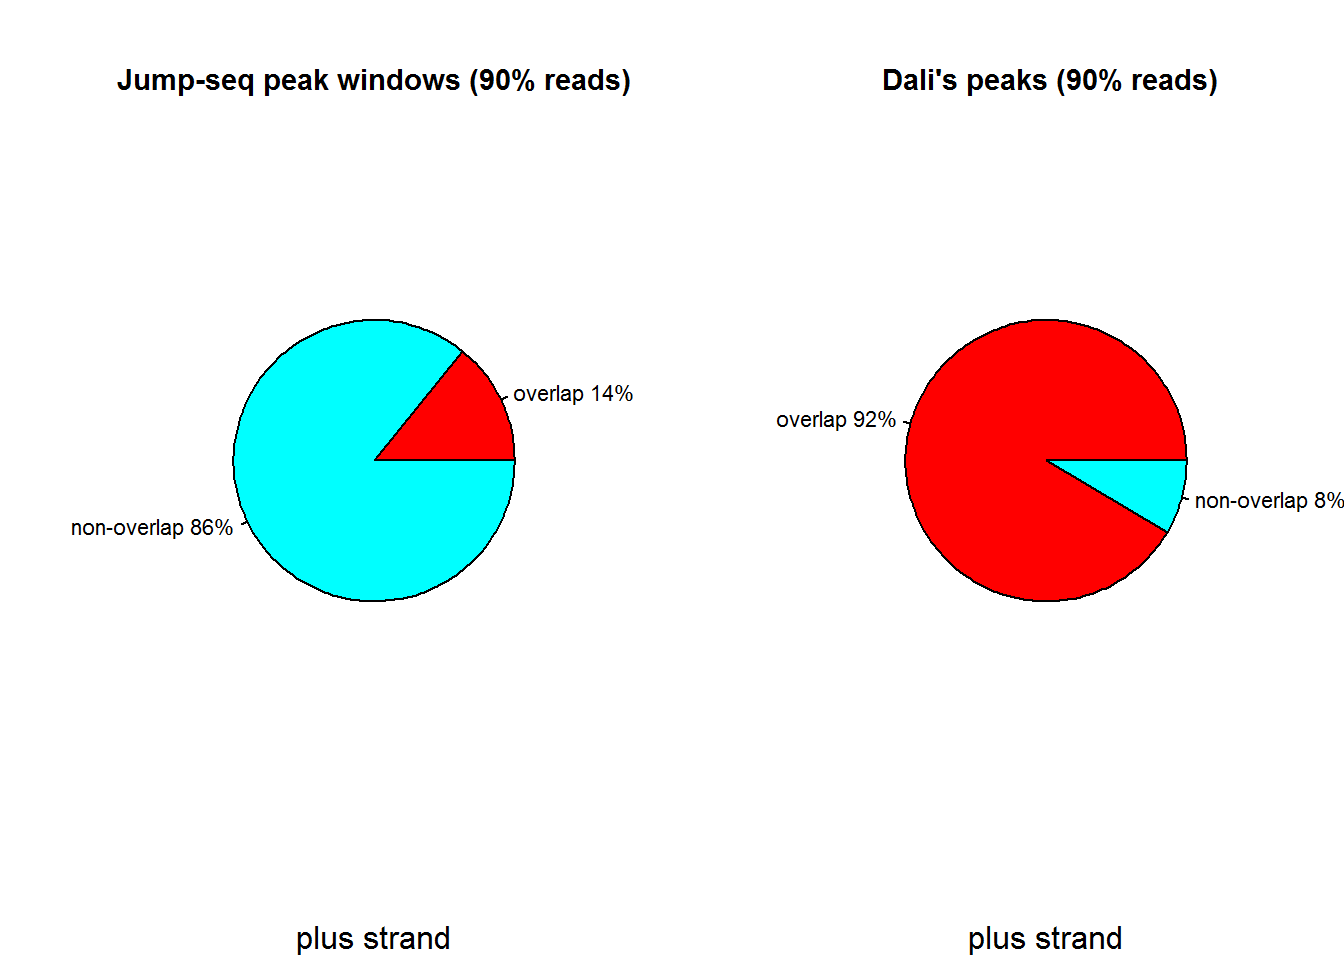
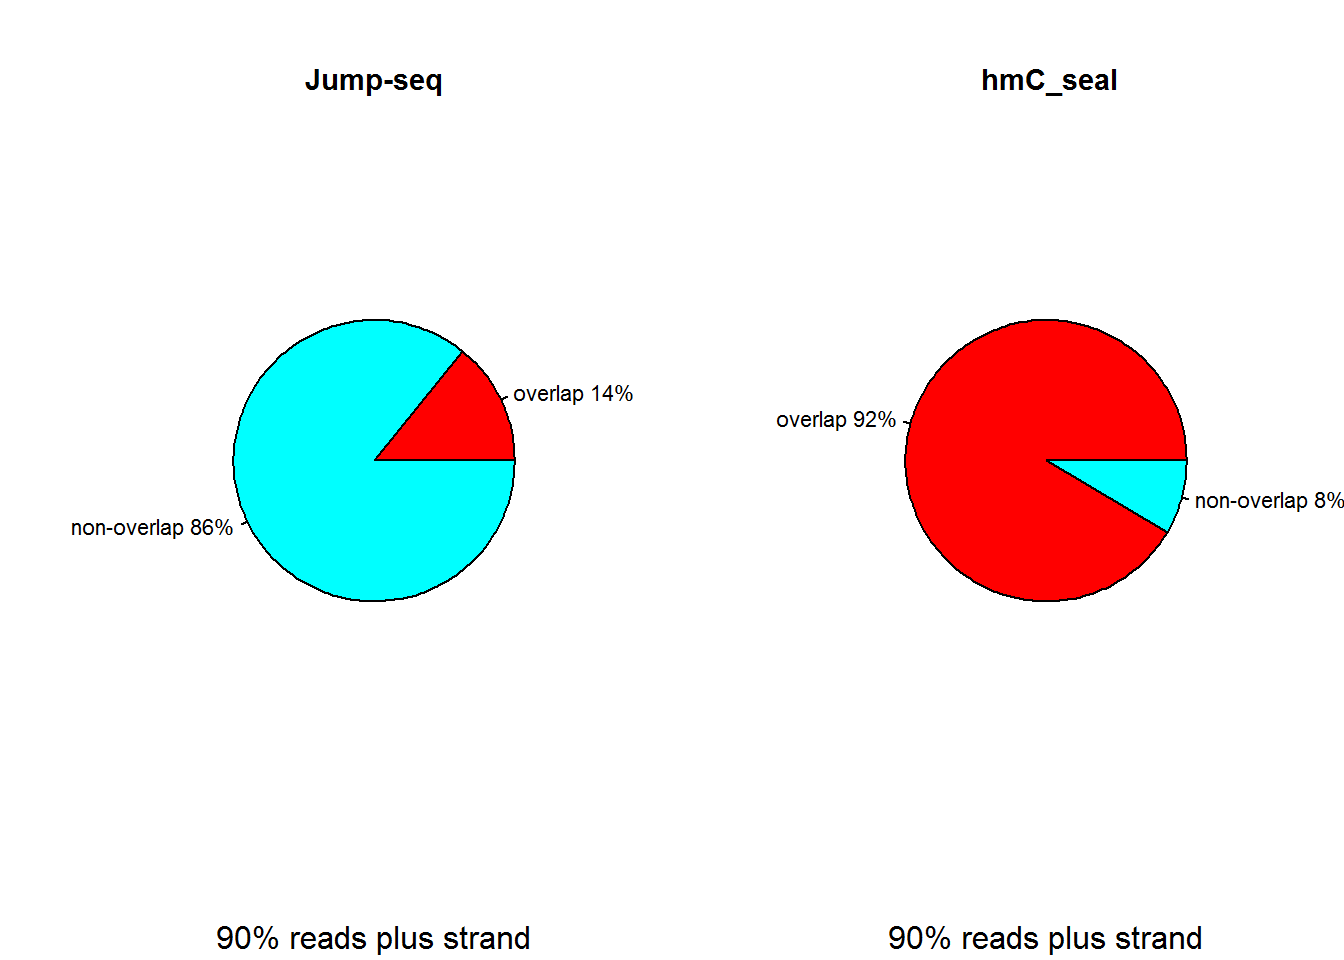
may 4

diff --git a/docs/JumpSeq-analysis.html b/docs/JumpSeq-analysis.html
@@ -315,7 +315,7 @@ shared across the workflowr files. -->
 <p><strong>Last updated:</strong> 2017-05-04</p>
 <!-- Insert the code version (Git commit SHA1) if Git repository exists and R
  package git2r is installed -->
-<p><strong>Code version:</strong> de75cfd</p>
+<p><strong>Code version:</strong> 5b3f1d8</p>
 <!-- Add your analysis here -->
 <p>All samples are <a href="https://docs.google.com/spreadsheets/d/1FHkVSgTCJDY19VcFg2goat4rXJfxofCn3CFRV-gCbfo/edit#gid=400442004">here</a>: 48 ng (11); 24 ng (5); 12 ng (5); 6ng (5); 2.4 ng (5); 0.6ng (2).</p>
 <div id="ng-5hmc-replicates" class="section level2">
@@ -765,7 +765,7 @@ pct &lt;- round(slices/sum(slices)*100)
 lbls &lt;- paste(lbls, pct) # add percents to labels 
 lbls &lt;- paste(lbls,&quot;%&quot;,sep=&quot;&quot;) # ad % to labels 
 pie(slices,radius=0.7, labels = lbls, cex=0.7, col=rainbow(length(lbls)),
-    main=&quot;Jump-seq peak windows (90% reads)&quot;, cex.main=0.9, sub=&quot;plus strand&quot;)
+    main=&quot;Jump-seq&quot;, cex.main=0.9, sub=&quot;90% reads plus strand&quot;)
 
 slices &lt;- c(59368, 5497) 
 lbls &lt;- c(&quot;overlap&quot;, &quot;non-overlap&quot;)
@@ -773,7 +773,7 @@ pct &lt;- round(slices/sum(slices)*100)
 lbls &lt;- paste(lbls, pct) # add percents to labels 
 lbls &lt;- paste(lbls,&quot;%&quot;,sep=&quot;&quot;) # ad % to labels 
 pie(slices,radius=0.7, labels = lbls, cex=0.7, col=rainbow(length(lbls)),
-    main=&quot; Dali&#39;s peaks (90% reads)&quot;, cex.main=0.9, sub=&quot;plus strand&quot;)</code></pre>
+    main=&quot; hmC_seal&quot;, cex.main=0.9, sub=&quot;90% reads plus strand&quot;)</code></pre>
 <p><img src="figure/JumpSeq-analysis.Rmd/unnamed-chunk-7-1.png" width="672" style="display: block; margin: auto;" /></p>
 </div>
 <div id="cmparison-with-strong-tab-seq-peaks" class="section level4">
@@ -798,7 +798,7 @@ pct &lt;- round(slices/sum(slices)*100)
 lbls &lt;- paste(lbls, pct) # add percents to labels 
 lbls &lt;- paste(lbls,&quot;%&quot;,sep=&quot;&quot;) # ad % to labels 
 pie(slices,radius=0.7, labels = lbls, cex=0.7, col=rainbow(length(lbls)),
-    main=&quot;Jump-seq peak windows (90% reads)&quot;, cex.main=0.9, sub=&quot;plus strand&quot;)
+    main=&quot;Jump-seq&quot;, cex.main=0.9, sub=&quot;90% reads plus strand&quot;)
 
 slices &lt;- c(916635, 1141001) 
 lbls &lt;- c(&quot;overlap&quot;, &quot;non-overlap&quot;)
@@ -806,7 +806,7 @@ pct &lt;- round(slices/sum(slices)*100)
 lbls &lt;- paste(lbls, pct) # add percents to labels 
 lbls &lt;- paste(lbls,&quot;%&quot;,sep=&quot;&quot;) # ad % to labels 
 pie(slices,radius=0.7, labels = lbls, cex=0.7, col=rainbow(length(lbls)),
-    main=&quot; strong TAB-seq (90% reads)&quot;, cex.main=0.9, sub=&quot;plus strand&quot;)</code></pre>
+    main=&quot; strong TAB-seq&quot;, cex.main=0.9, sub=&quot;90% reads plus strand&quot;)</code></pre>
 <p><img src="figure/JumpSeq-analysis.Rmd/unnamed-chunk-9-1.png" width="672" style="display: block; margin: auto;" /></p>
 </div>
 </div>
@@ -1245,10 +1245,15 @@ count2[,2]=521062-count2[,1]
 pval=fisher.test(count2, alternative = &quot;greater&quot;)$p.value
 barplot(count2[,1], beside=F, col=c(&quot;red&quot;, &quot;darkblue&quot;), legend=c(&quot;Observed&quot;, &quot;Expected&quot;), xlab=&quot;strong TAB-seq&quot;, main=&quot;2.4ng (combine)&quot;, ylab=&quot;Number of peak windows&quot;)</code></pre>
 <p><img src="figure/JumpSeq-analysis.Rmd/unnamed-chunk-33-1.png" width="672" style="display: block; margin: auto;" /></p>
+<div id="section-4" class="section level100">
+<p></p>
+</div>
 </div>
 </div>
 <div id="summary" class="section level2">
 <h2>Summary</h2>
+<div id="overlap-pattern-at-different-genomic-concentration" class="section level3">
+<h3>Overlap pattern at different genomic concentration</h3>
 <ul>
 <li>Jump-seq overlaps with Dali’s peaks</li>
 </ul>
@@ -1275,6 +1280,45 @@ legend(1, 0.5, c(&quot;Jump-seq&quot;, &quot;strong TAB-seq&quot;, &quot;backgro
 axis.labels &lt;-c(&quot;2.4ng combine &quot;, &quot;6ng&quot;, &quot;12ng&quot;, &quot;24ng&quot;, &quot;48ng(90%)&quot;)
 axis(1, at=seq(1,5), labels=axis.labels)</code></pre>
 <p><img src="figure/JumpSeq-analysis.Rmd/unnamed-chunk-35-1.png" width="672" style="display: block; margin: auto;" /></p>
+</div>
+<div id="enrichemnt-analysis" class="section level3">
+<h3>Enrichemnt analysis</h3>
+<pre class="r"><code>count=matrix(nrow=2, ncol=2)
+count[,1]=c(43213, 10092)
+count[,2]=c(98049, 13382)
+colnames(count)=c(&quot;hmC_seal&quot;, &quot;strong TAB-seq&quot;)
+barplot(count, beside=T, col=c(&quot;red&quot;, &quot;darkblue&quot;), legend=c(&quot;Observed&quot;, &quot;Expected&quot;), 
+xlab=&quot;&quot;, main=&quot;2.4ng (combine) minus strand&quot;, ylab=&quot;Number of peak windows&quot;)</code></pre>
+<p><img src="figure/JumpSeq-analysis.Rmd/unnamed-chunk-36-1.png" width="672" style="display: block; margin: auto;" /></p>
+<pre class="r"><code>count=matrix(nrow=2, ncol=2)
+count[,1]=c(61404, 12907)
+count[,2]=c(114794, 17049)
+colnames(count)=c(&quot;hmC_seal&quot;, &quot;strong TAB-seq&quot;)
+barplot(count, beside=T, col=c(&quot;red&quot;, &quot;darkblue&quot;), legend=c(&quot;Observed&quot;, &quot;Expected&quot;), 
+xlab=&quot;&quot;, main=&quot;6ng rep5 minus strand&quot;, ylab=&quot;Number of peak windows&quot;)</code></pre>
+<p><img src="figure/JumpSeq-analysis.Rmd/unnamed-chunk-37-1.png" width="672" style="display: block; margin: auto;" /></p>
+<pre class="r"><code>count=matrix(nrow=2, ncol=2)
+count[,1]=c(111734, 23172)
+count[,2]=c(149717, 31057)
+colnames(count)=c(&quot;hmC_seal&quot;, &quot;strong TAB-seq&quot;)
+barplot(count, beside=T, col=c(&quot;red&quot;, &quot;darkblue&quot;), legend=c(&quot;Observed&quot;, &quot;Expected&quot;), 
+xlab=&quot;&quot;, main=&quot;12ng rep5 minus strand&quot;, ylab=&quot;Number of peak windows&quot;)</code></pre>
+<p><img src="figure/JumpSeq-analysis.Rmd/unnamed-chunk-38-1.png" width="672" style="display: block; margin: auto;" /></p>
+<pre class="r"><code>count=matrix(nrow=2, ncol=2)
+count[,1]=c(122190, 29091)
+count[,2]=c(246529, 17073)
+colnames(count)=c(&quot;hmC_seal&quot;, &quot;strong TAB-seq&quot;)
+barplot(count, beside=T, col=c(&quot;red&quot;, &quot;darkblue&quot;), legend=c(&quot;Observed&quot;, &quot;Expected&quot;), 
+xlab=&quot;&quot;, main=&quot;24ng rep4 minus strand&quot;, ylab=&quot;Number of peak windows&quot;)</code></pre>
+<p><img src="figure/JumpSeq-analysis.Rmd/unnamed-chunk-39-1.png" width="672" style="display: block; margin: auto;" /></p>
+<pre class="r"><code>count=matrix(nrow=2, ncol=2)
+count[,1]=c(492824, 67317)
+count[,2]=c(861701, 89747)
+colnames(count)=c(&quot;hmC_seal&quot;, &quot;strong TAB-seq&quot;)
+barplot(count, beside=T, col=c(&quot;red&quot;, &quot;darkblue&quot;), legend=c(&quot;Observed&quot;, &quot;Expected&quot;), 
+xlab=&quot;&quot;, main=&quot;48ng (90%reads) minus strand&quot;, ylab=&quot;Number of peak windows&quot;)</code></pre>
+<p><img src="figure/JumpSeq-analysis.Rmd/unnamed-chunk-40-1.png" width="672" style="display: block; margin: auto;" /></p>
+</div>
 </div>
 <div id="session-information" class="section level2">
 <h2>Session information</h2>

diff --git a/docs/index.html b/docs/index.html
@@ -210,8 +210,8 @@ $(document).ready(function () {
 <p>This project aims to investigate genome-wide distribution of 5hmC.</p>
 <ul>
 <li><a href="PeakCalling-procedure.html">This</a> is Peak window calling procedure.</li>
-<li><a href="JumpSeq-analysis.html">This</a> is jump seq data analysis.</li>
-<li>Yuwen’s analysis is <a href="http://liu-genomics.github.io/Tiao_Seq/index.html">here</a></li>
+<li><p><a href="JumpSeq-analysis.html">This</a> is analysis for 5hmC data.</p></li>
+<li><p>Yuwen’s analysis is <a href="http://liu-genomics.github.io/Tiao_Seq/index.html">here</a></p></li>
 </ul>
 
 <hr>
